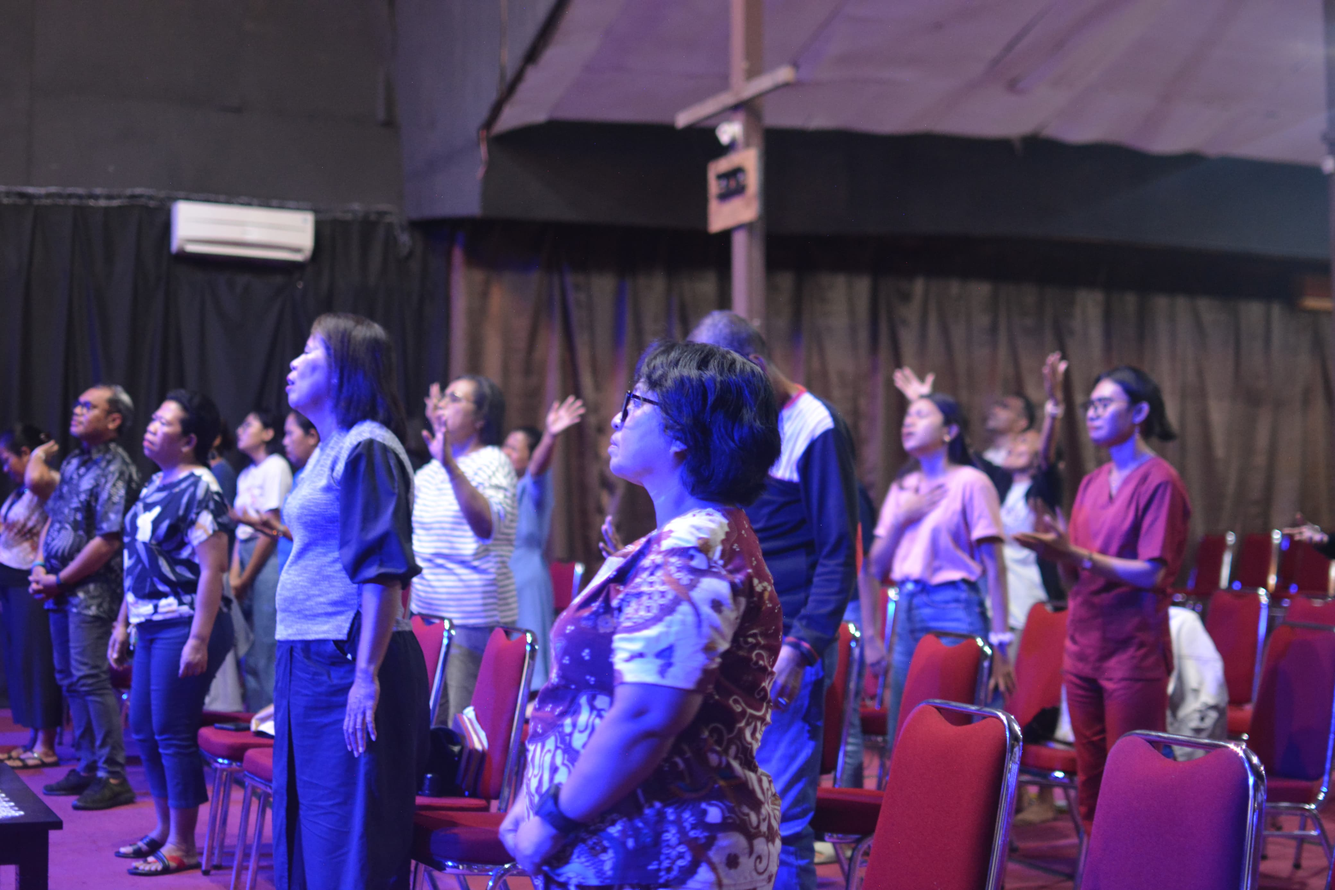
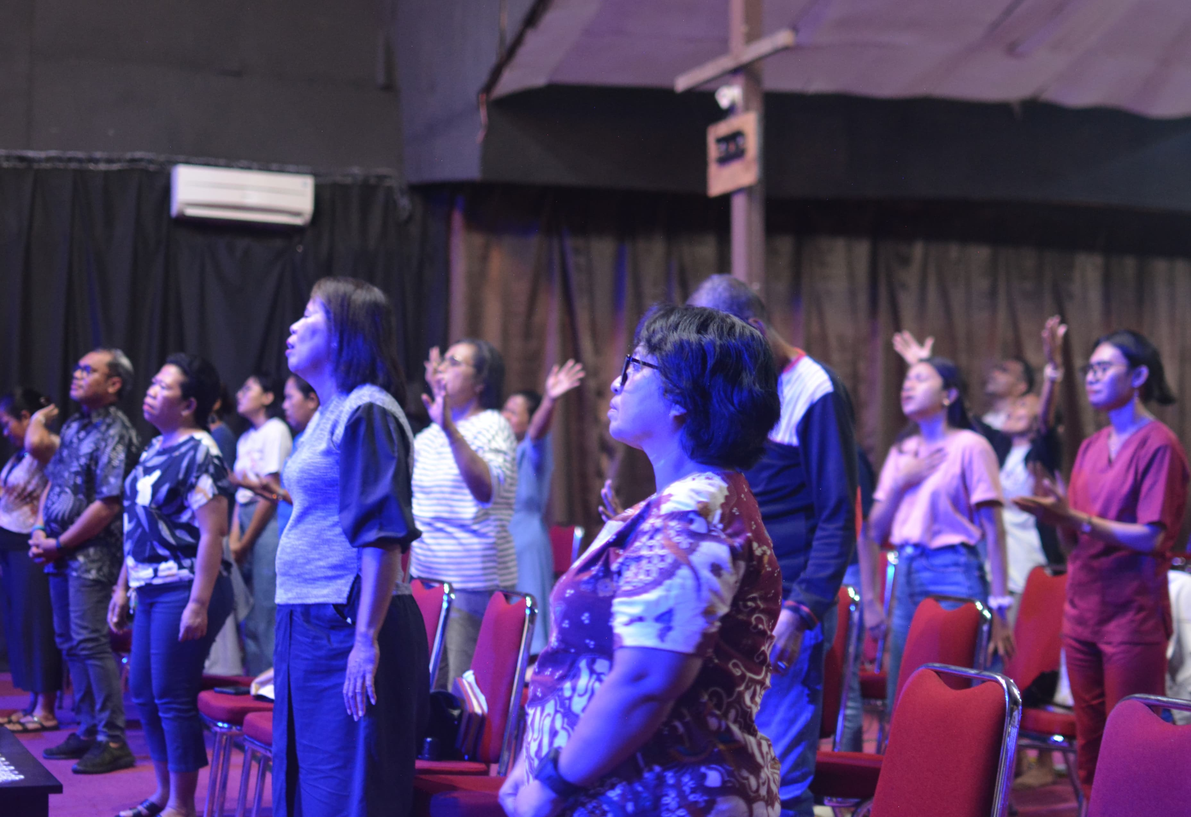
17 june update - media, idp , add img

diff --git a/content/media.php b/content/media.php
@@ -70,7 +70,9 @@
       <img src="../img/media/gwt.jpg" class="mx-auto d-block img-fluid" alt="media9">
       <img src="../img/media/penyerahananak.jpg" class="mx-auto d-block img-fluid" alt="media10">
       <img src="../img/media/baptis.jpg" class="mx-auto d-block img-fluid" alt="media11">
-      <img src="../img/media/kunjunganakhirtahun.jpg" class="mx-auto d-block img-fluid" alt="media12">
+      <img src="../img/media/kalteng.jpg" class="mx-auto d-block img-fluid" alt="media12">
+      <img src="../img/media/waisai.jpg" class="mx-auto d-block img-fluid" alt="media13">
+      <img src="../img/media/kunjunganakhirtahun.jpg" class="mx-auto d-block img-fluid" alt="media14">
     </div>
   </div>
   <!-- isi -->

diff --git a/content/services/IDP.php b/content/services/IDP.php
@@ -60,7 +60,7 @@
   <div class="container" id="idpclass">
     <div class="row text-church" id="bannerserv">
       <h2 id="textserv"> Ibadah Doa Pelayan </h2>
-      <img draggable="false" src="../../img/Service/doapersiapan.jpg" class="mx-auto d-block img-fluid" alt="SM" id="IDPpage">
+      <img draggable="false" src="../../img/Service/doapelayan2.jpg" class="mx-auto d-block img-fluid" alt="SM" id="IDPpage">
     </div>
     <div class="container">
       <article>
